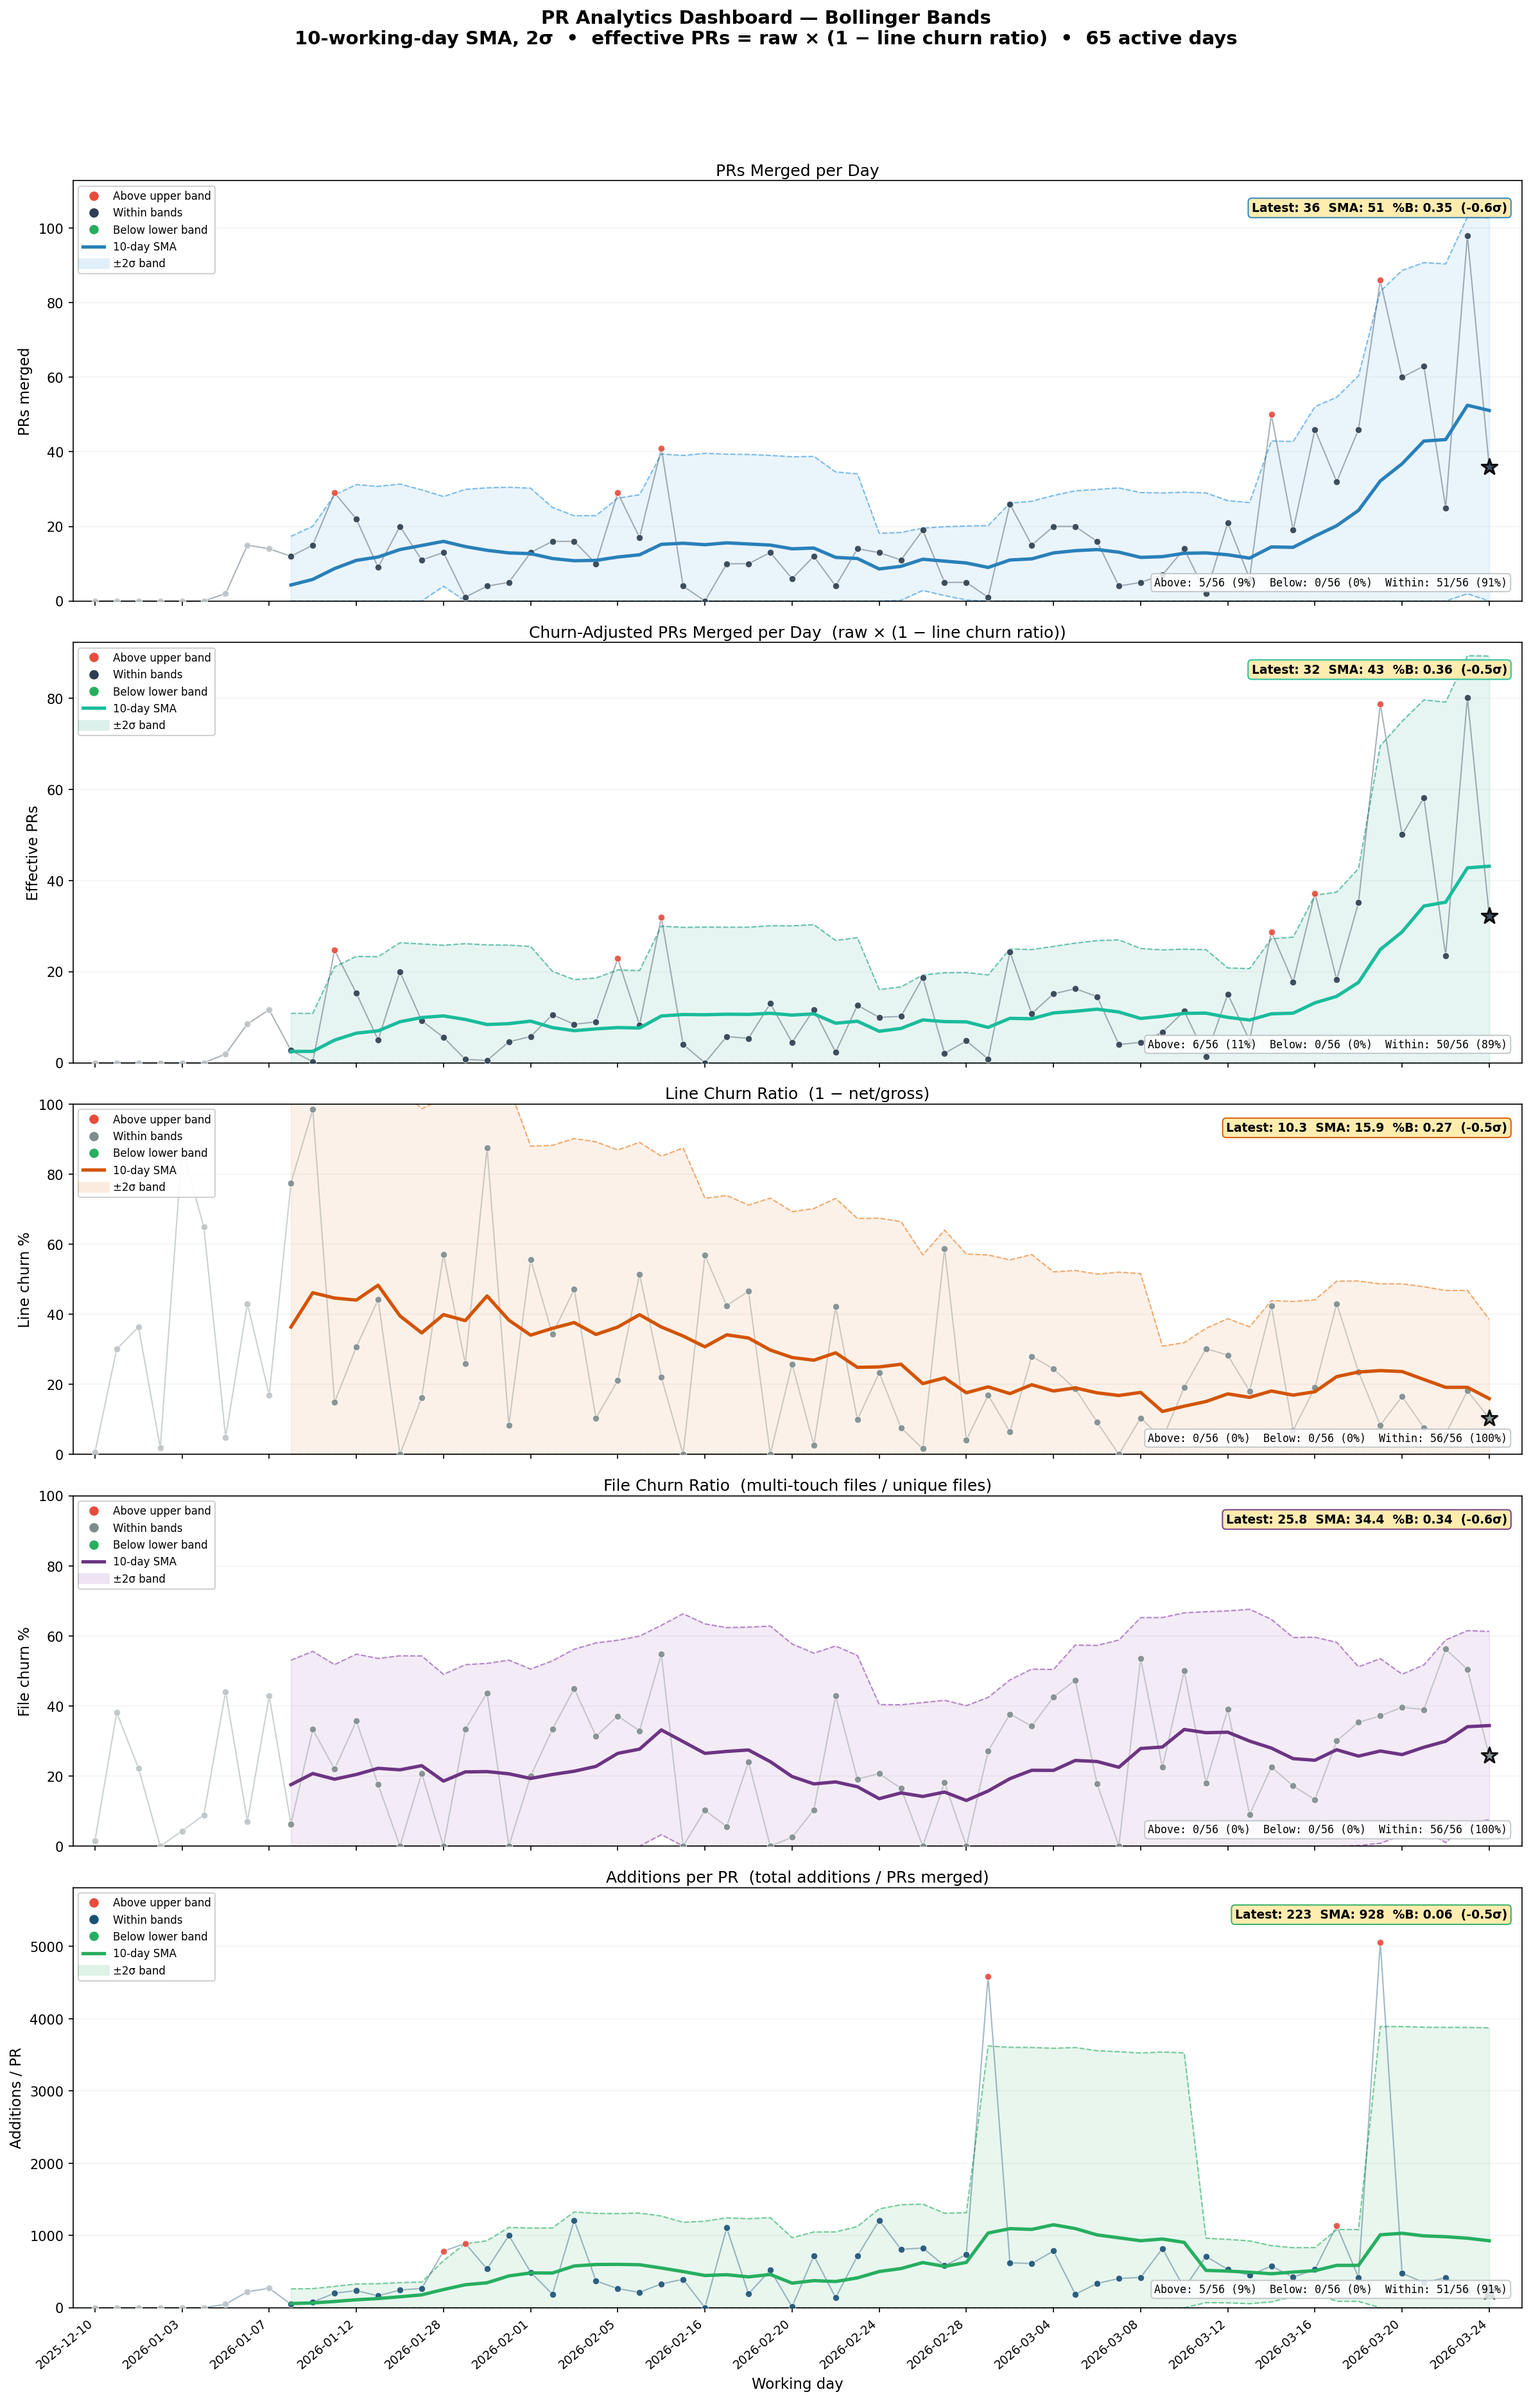
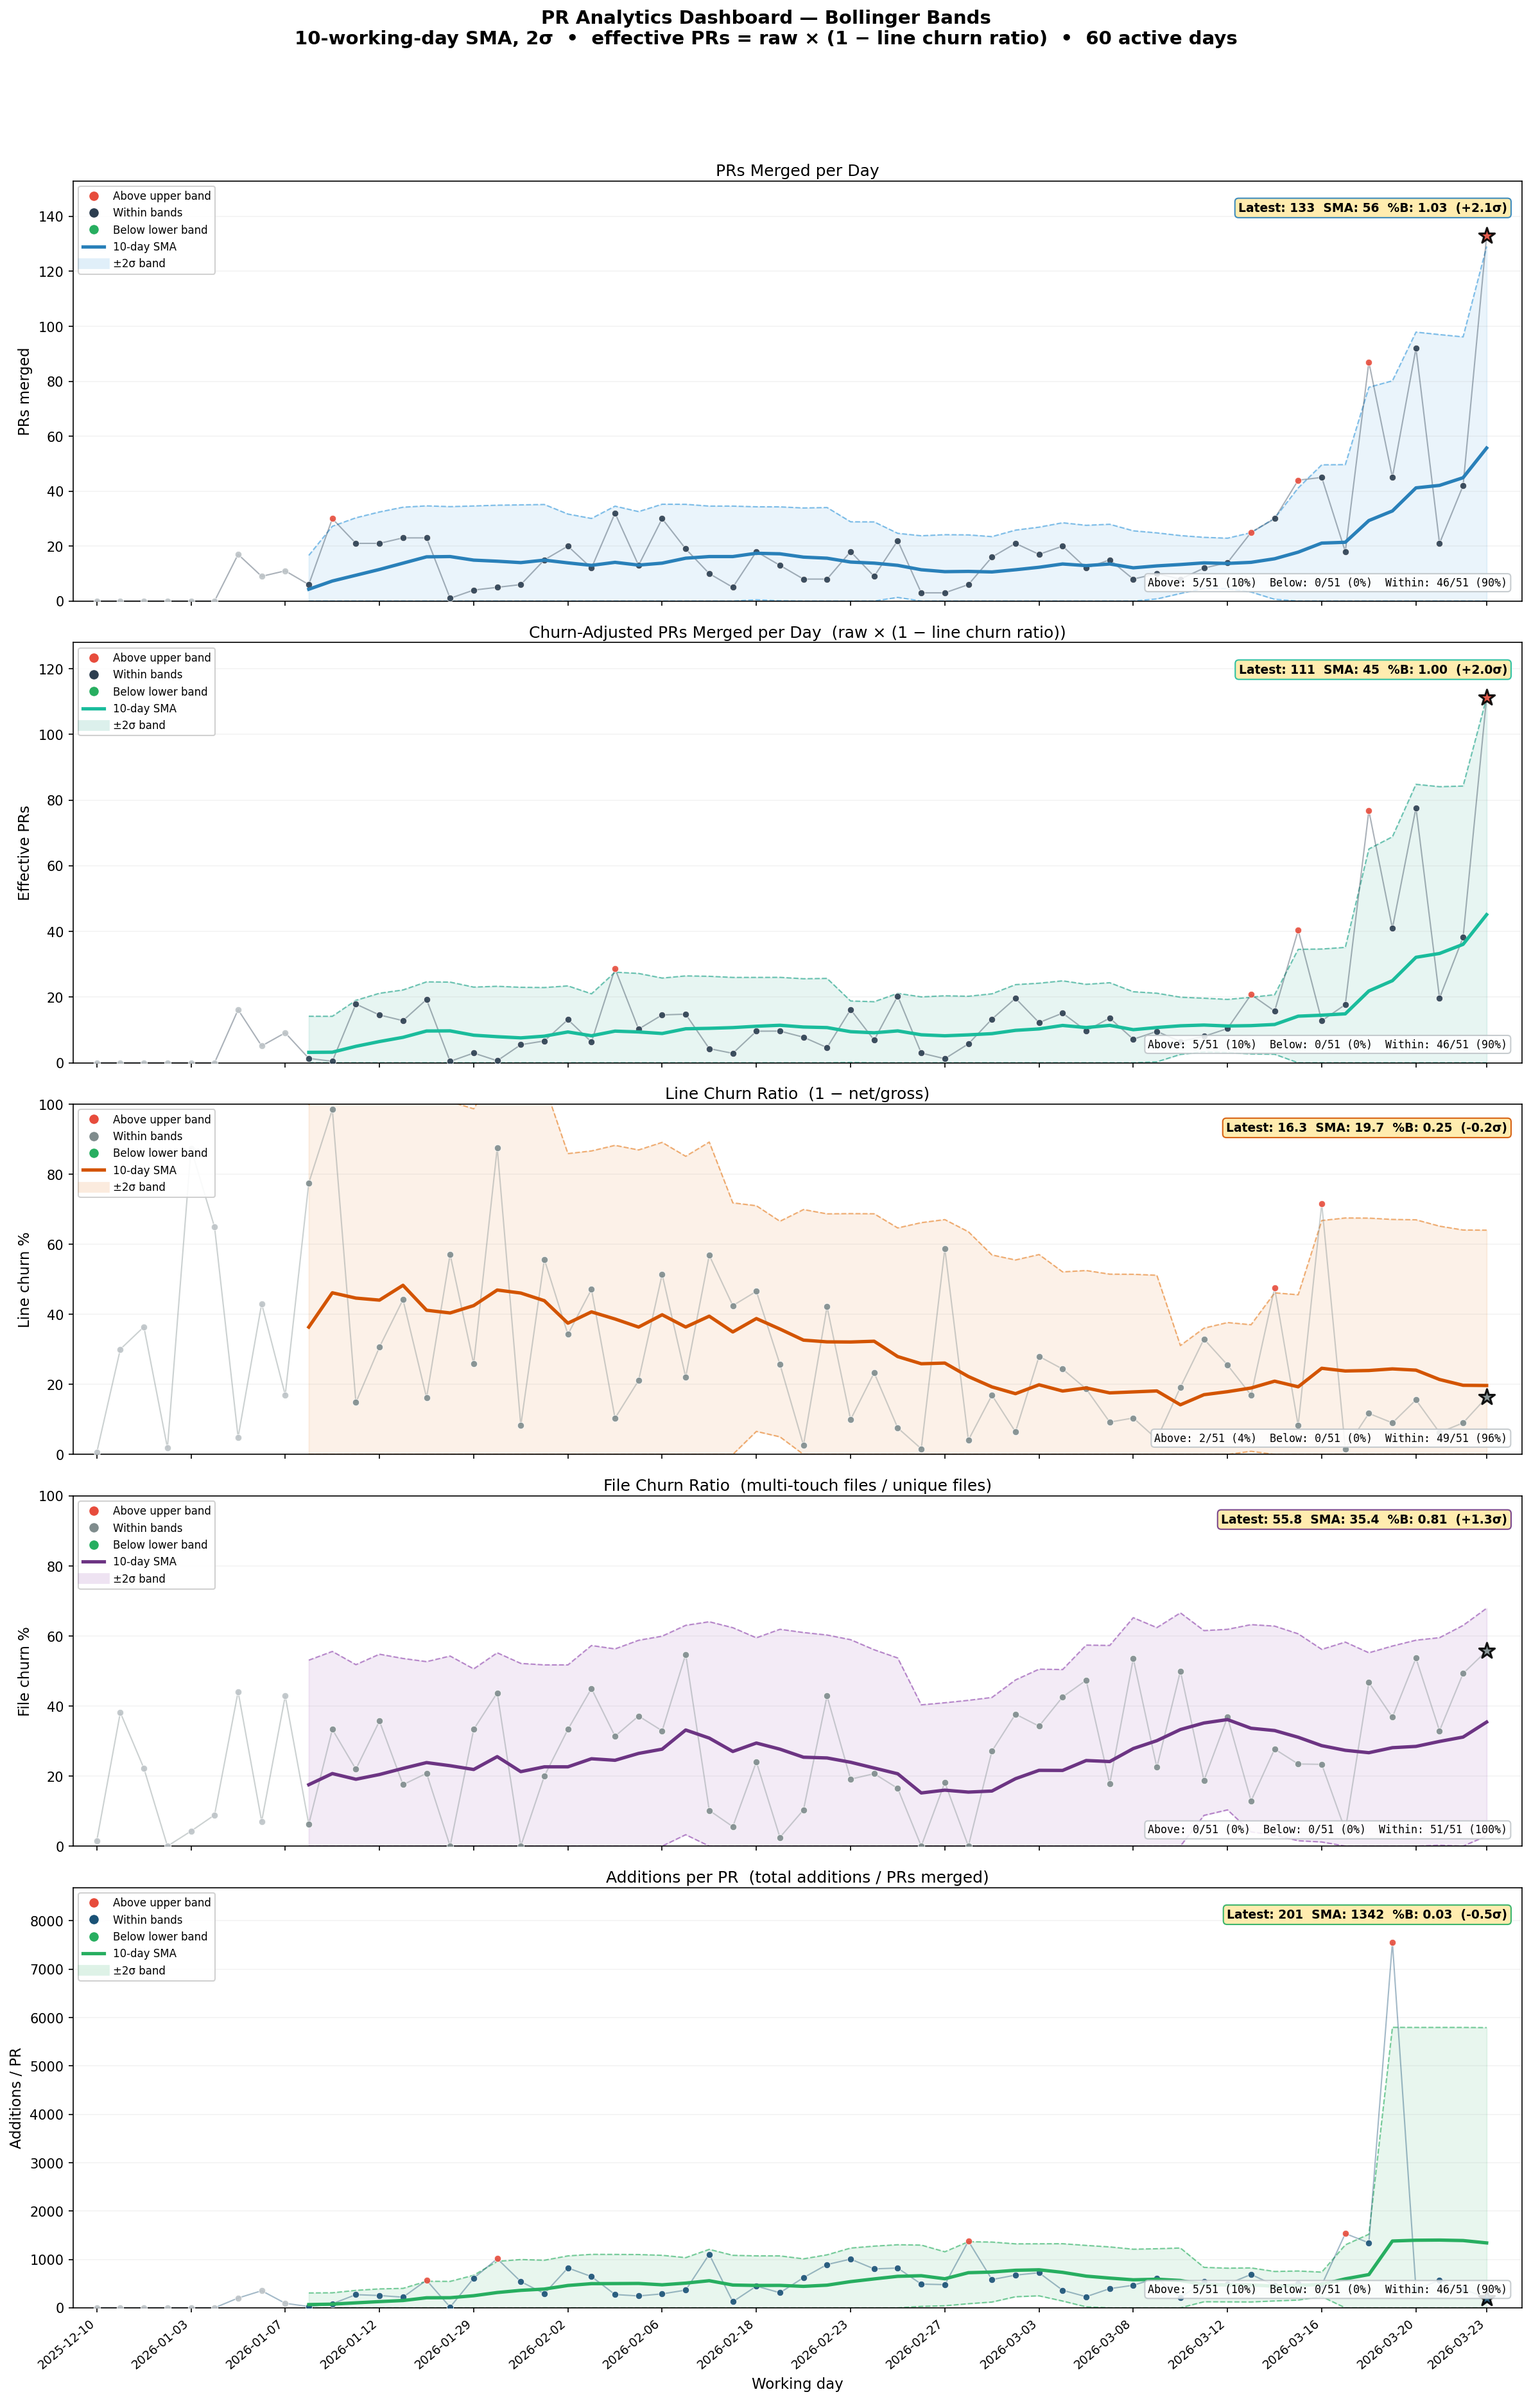
fix: normalize dashboard day boundaries to Pacific Time
Both data sources (gh pr mergedAt and git log commit dates) now bucket
into calendar days using America/Los_Angeles instead of UTC. Also reduces
_GH_PR_LIMIT from 10,000 to 2,000 to avoid GitHub GraphQL API 502 errors.

diff --git a/scripts/generate_dashboard.py b/scripts/generate_dashboard.py
@@ -22,7 +22,9 @@ import logging
 import os
 import subprocess
 from collections import defaultdict
+from datetime import datetime
 from pathlib import Path
+from zoneinfo import ZoneInfo
 
 logger = logging.getLogger(__name__)
 
@@ -37,20 +39,28 @@ from matplotlib.lines import Line2D  # noqa: E402
 WINDOW = 10  # 10 active days (any day with commits)
 NUM_STD = 2  # Standard 2σ bands
 
+# ── Timezone ─────────────────────────────────────────────────────────────
+# Day boundaries use America/Los_Angeles so the dashboard aligns with PT.
+DASHBOARD_TZ = ZoneInfo("America/Los_Angeles")
 
-def _git(args: list[str], repo: str) -> str:
+
+def _git(args: list[str], repo: str, *, env_extra: dict[str, str] | None = None) -> str:
     """Run a git command and return stdout."""
+    env = None
+    if env_extra:
+        env = {**os.environ, **env_extra}
     result = subprocess.run(
         ["git", *args],
         capture_output=True,
         text=True,
         cwd=repo,
         check=True,
+        env=env,
     )
     return result.stdout
 
 
-_GH_PR_LIMIT = 10_000
+_GH_PR_LIMIT = 2_000
 
 
 def _gather_pr_counts(
@@ -98,7 +108,9 @@ def _gather_pr_counts(
         merged_at = pr.get("mergedAt", "")
         if not merged_at:
             continue
-        date = merged_at[:10]  # YYYY-MM-DD
+        # Convert UTC timestamp to dashboard timezone for day bucketing
+        dt = datetime.fromisoformat(merged_at.replace("Z", "+00:00"))
+        date = dt.astimezone(DASHBOARD_TZ).strftime("%Y-%m-%d")
         pr_counts[date] += 1
         pr_additions[date] += pr.get("additions", 0)
         pr_deletions[date] += pr.get("deletions", 0)
@@ -107,8 +119,13 @@ def _gather_pr_counts(
 
 
 def _gather_line_stats(repo: str) -> tuple[dict[str, int], dict[str, int]]:
-    """Return per-day insertions and deletions from git numstat (commit date)."""
-    output = _git(["log", "--format=COMMIT %cd", "--date=short", "--numstat"], repo)
+    """Return per-day insertions and deletions from git numstat (commit date in PT)."""
+    tz_env = {"TZ": str(DASHBOARD_TZ)}
+    output = _git(
+        ["log", "--format=COMMIT %cd", "--date=format-local:%Y-%m-%d", "--numstat"],
+        repo,
+        env_extra=tz_env,
+    )
 
     day_ins: dict[str, int] = defaultdict(int)
     day_del: dict[str, int] = defaultdict(int)
@@ -127,8 +144,13 @@ def _gather_line_stats(repo: str) -> tuple[dict[str, int], dict[str, int]]:
 
 
 def _gather_file_churn(repo: str) -> tuple[dict[str, int], dict[str, int]]:
-    """Return per-day unique files and files touched more than once (commit date)."""
-    output = _git(["log", "--format=COMMIT %cd", "--date=short", "--numstat"], repo)
+    """Return per-day unique files and files touched more than once (commit date in PT)."""
+    tz_env = {"TZ": str(DASHBOARD_TZ)}
+    output = _git(
+        ["log", "--format=COMMIT %cd", "--date=format-local:%Y-%m-%d", "--numstat"],
+        repo,
+        env_extra=tz_env,
+    )
 
     file_touches: dict[str, dict[str, int]] = defaultdict(lambda: defaultdict(int))
 
